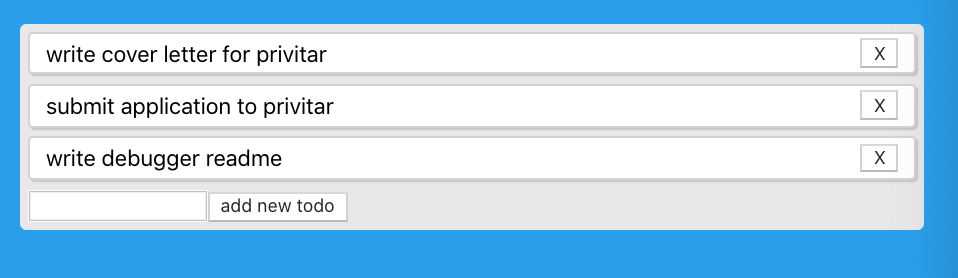
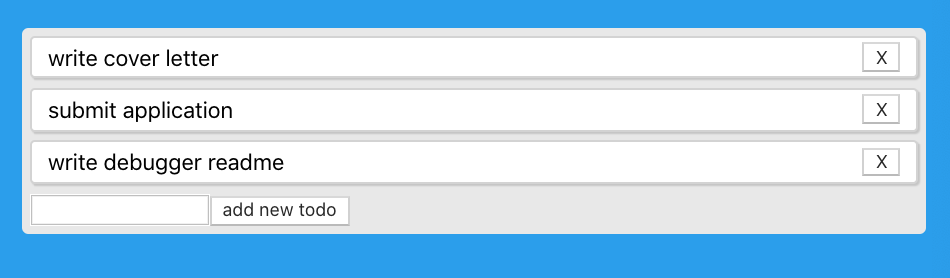
change screenshot

Changed region(s): [[0.0, 0.0863, 0.9768, 0.8633]]

diff --git a/src/App.js b/src/App.js
@@ -8,11 +8,11 @@ import TodoForm from './TodoForm';
 function App() {
   const [todos, setToDos] = useState([
     { 
-      text: "write cover letter for privitar",
+      text: "write cover letter",
       isCompleted: false 
     },
     { 
-      text: "submit application to privitar", 
+      text: "submit application", 
       isCompleted: false 
     },
     { 
